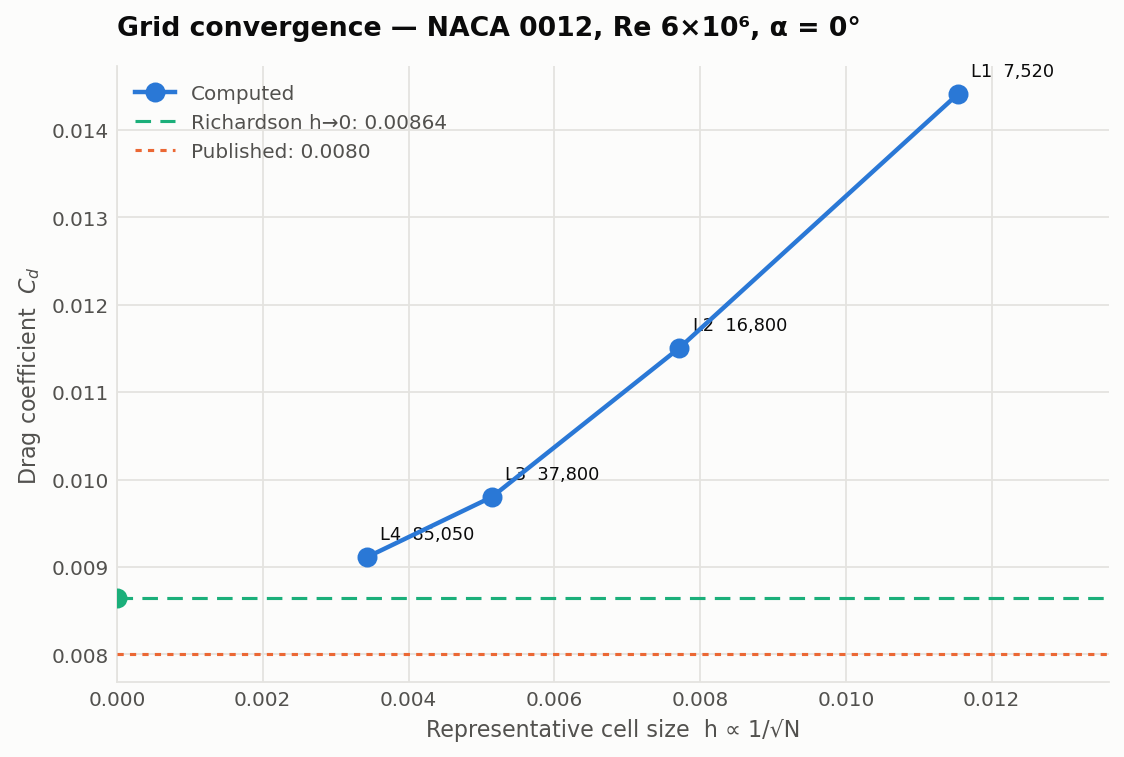
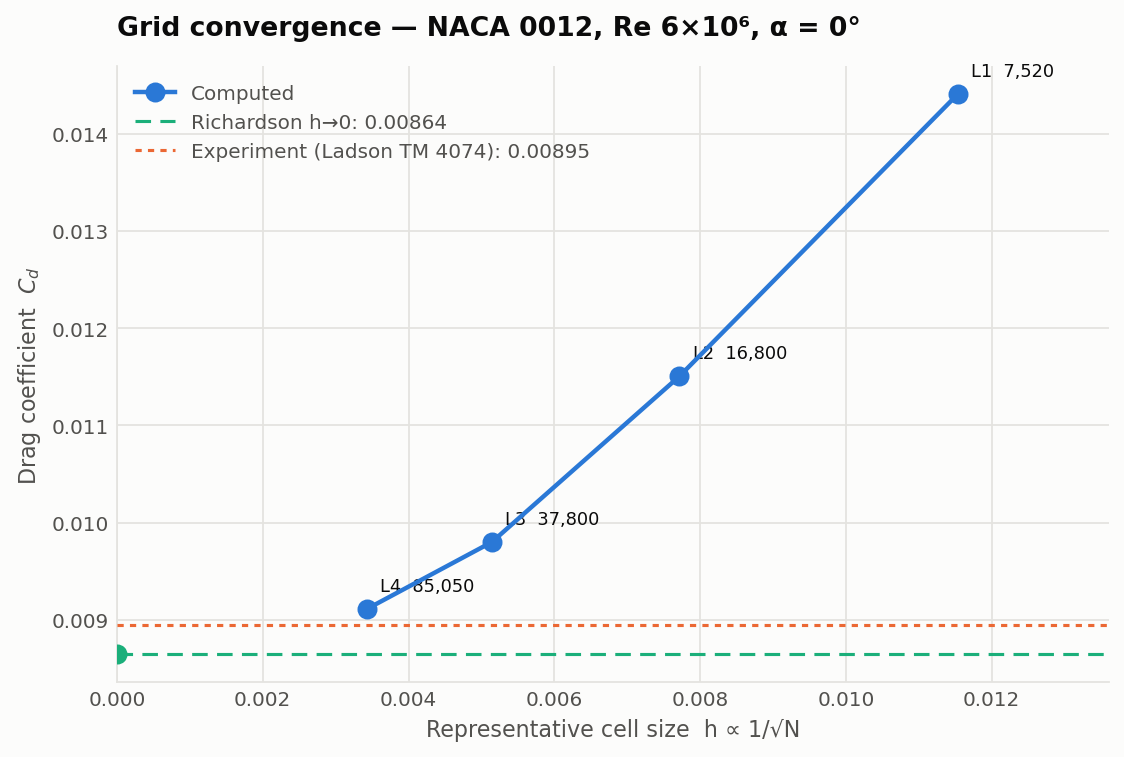
Validate against Ladson TM 4074, and delete the constant that was wrong
Digitises Table VII of NASA TM 4074 — M = 0.15, transition fixed with
No. 60-W grit, R = 6.00e6 — which is the right comparison because this
computation is fully turbulent from the leading edge with no transition
model.

Lift agrees to a mean absolute error of 0.0092 across the sweep and
better than 0.007 everywhere below +12 degrees. The worst point is +14 at
+0.051, which is the computation failing to stall rather than a modelling
error in the attached regime; the measurement stalls between 14.02 and
15.06 with Cl_max 1.2169.

Drag on the L3 mesh runs 8 to 42 counts high, and most of that turns out
to be discretisation. The mesh study extrapolates Cd at zero incidence to
0.008645 against a measured 0.00895 — minus 3.4%, inside the 6.4% GCI
band. The computation agrees with experiment to within its own numerical
uncertainty, and the L3 discrepancy is the grid rather than the model.

The reference constant this repository carried was wrong, which is the
finding worth keeping. PUBLISHED_CD = 0.0080 was written from memory and
belongs to a smooth aerofoil with free transition; the tripped case at
Re 6e6 is 0.00895. Against the bad constant the extrapolation looked 8.1%
high; against the real one it is 3.4% low. It made the model look worse
than it is and pointed the error the wrong way, and nothing about it
looked suspicious. analyse.py no longer holds a drag constant at all — it
reads the digitised reference, so the failure cannot recur.
[…]

diff --git a/analyse.py b/analyse.py
@@ -19,9 +19,24 @@ import matplotlib.pyplot as plt  # noqa: E402
 
 HERE = Path(__file__).parent
 
-# Abbott & Von Doenhoff, NACA 0012, Re 6e6, alpha 0, smooth surface.
-# Carried in code, not transcribed from the source — verify before publishing.
-PUBLISHED_CD = 0.0080
+# Read from the digitised reference rather than hard-coded. The constant that
+# used to sit here was 0.0080, taken from memory, and it was wrong for this
+# condition: that figure belongs to a smooth aerofoil with free transition,
+# while this computation is fully turbulent and must be compared against the
+# tripped case, which is 0.00895 at Re 6e6. The bad constant made the
+# extrapolated drag look 8.1% high when it is in fact 3.4% low. A number
+# carried in code with no provenance is exactly the failure the reference
+# loader exists to prevent, so the loader supplies it.
+REFERENCE = HERE / "validation" / "reference" / "naca0012-ladson-tm4074.json"
+
+
+def published_cd(alpha: float = 0.0):
+    """Experimental drag at `alpha`, or None if no reference is digitised yet."""
+    try:
+        from src.reference import load
+        return load(REFERENCE).interpolate(alpha, "cd")
+    except (FileNotFoundError, ValueError):
+        return None
 
 THEMES = {
     "light": {"surface": "#fcfcfb", "ink": "#0b0b0b", "ink_muted": "#52514e",
@@ -91,9 +106,11 @@ def figure(data, theme="light", suffix=""):
         ax.plot([0], [res["extrapolated"]], "o", color=t["series"][2],
                 markersize=8, zorder=5)
 
-    ax.axhline(PUBLISHED_CD, color=t["series"][1], linewidth=1.4,
-               linestyle=(0, (2, 2)), zorder=3,
-               label=f"Published: {PUBLISHED_CD:.4f}")
+    exp = published_cd(0.0)
+    if exp is not None:
+        ax.axhline(exp, color=t["series"][1], linewidth=1.4,
+                   linestyle=(0, (2, 2)), zorder=3,
+                   label=f"Experiment (Ladson TM 4074): {exp:.5f}")
 
     # Room on the right for the coarsest point's label, and the legend moved
     # off the two horizontal reference lines it was sitting on.
@@ -129,9 +146,16 @@ def main() -> None:
             print(f"observed order of convergence p = {res['p']:.2f}")
             print(f"Richardson extrapolation to h=0: Cd = {res['extrapolated']:.6f}")
             print(f"GCI on the finest grid          = {res['gci_fine']*100:.2f}%")
-            print(f"published Cd                    = {PUBLISHED_CD:.4f}")
-            err = (res["extrapolated"] - PUBLISHED_CD) / PUBLISHED_CD
-            print(f"extrapolated vs published       = {err*100:+.1f}%")
+            exp = published_cd(0.0)
+            if exp is None:
+                print("no digitised reference — comparison skipped")
+            else:
+                err = (res["extrapolated"] - exp) / exp
+                print(f"experiment (Ladson TM 4074)     = {exp:.5f}")
+                print(f"extrapolated vs experiment      = {err*100:+.1f}%")
+                inside = abs(err) < res["gci_fine"]
+                print(f"inside the {res['gci_fine']*100:.1f}% GCI band       "
+                      f"= {'yes' if inside else 'no'}")
         else:
             print("convergence is not monotone — Richardson extrapolation "
                   "does not apply to this sequence")

diff --git a/compare.py b/compare.py
@@ -64,18 +64,19 @@ def main() -> None:
     print(f"{'alpha':>7} {'Cl':>9} {'Cl exp':>9} {'ΔCl':>8} "
           f"{'Cd':>9} {'Cd exp':>9} {'Δ counts':>9}")
     for r in rows:
-        fmt = lambda v, s: f"{v:{s}}" if v is not None else " " * int(s.split(".")[0].strip(">+"))
+        def fmt(v, width, prec):
+            return f"{v:>+{width}.{prec}f}" if v is not None else " " * width
         print(f"{r['alpha']:>+7.1f} {r['cl']:>+9.4f} "
-              f"{fmt(r['cl_ref'], '>+9.4f')} {fmt(r['cl_delta'], '>+8.4f')} "
-              f"{r['cd']:>9.5f} {fmt(r['cd_ref'], '>9.5f')} "
-              f"{fmt(r['cd_counts'], '>+9.1f')}")
+              f"{fmt(r['cl_ref'], 9, 4)} {fmt(r['cl_delta'], 8, 4)} "
+              f"{r['cd']:>9.5f} {fmt(r['cd_ref'], 9, 5)} "
+              f"{fmt(r['cd_counts'], 9, 1)}")
 
     inside = [r for r in rows if r["in_range"]]
     outside = [r for r in rows if not r["in_range"]]
     if outside:
-        print(f"\n{len(outside)} computed angles lie outside the measured range "
-              f"and are not compared: "
-              f"{', '.join(f'{r[chr(39)+chr(39)] if False else r['alpha']:+.0f}°' for r in outside)}")
+        angles = ", ".join(f"{r['alpha']:+.0f}deg" for r in outside)
+        print(f"\n{len(outside)} computed angles lie outside the measured "
+              f"range and are not compared: {angles}")
     if inside:
         cl_d = [abs(r["cl_delta"]) for r in inside if r["cl_delta"] is not None]
         cd_c = [abs(r["cd_counts"]) for r in inside if r["cd_counts"] is not None]

diff --git a/src/reference.py b/src/reference.py
@@ -91,6 +91,20 @@ def load(path) -> Reference:
         if "alpha" not in p or not ({"cl", "cd"} & set(p)):
             raise ValueError(f"{path.name}: every point needs alpha and cl or cd")
 
+    # If the source printed its own lift-to-drag column, use it. Cl/Cd must
+    # reproduce it, and a transposed or misread digit in either coefficient
+    # breaks the ratio even though both numbers still look plausible on their
+    # own. This is the cheapest check there is on a digitised table, and it
+    # catches the error that matters most.
+    for p in points:
+        if {"cl", "cd", "l_over_d"} <= set(p) and p["cd"]:
+            if abs(p["cl"] / p["cd"] - p["l_over_d"]) > 0.1:
+                raise ValueError(
+                    f"{path.name}: at alpha {p['alpha']}, Cl/Cd = "
+                    f"{p['cl'] / p['cd']:.2f} but the source prints "
+                    f"{p['l_over_d']:.2f}. One of the three was misread."
+                )
+
     if str(raw["surface_condition"]).lower() not in ("smooth", "standard roughness"):
         raise ValueError(
             f"surface_condition {raw['surface_condition']!r} is not one of "

diff --git a/README.md b/README.md
@@ -19,6 +19,8 @@ rather than left to be assumed.
 | Lift-curve slope | **0.10710/deg — 97.7% of 2π** |
 | Zero-lift angle | **+0.0001°** (symmetry requires 0) |
 | Best L/D | **46.9 at +8°** |
+| Lift vs experiment | **mean \|ΔCl\| = 0.0092** over −4..+14° |
+| Grid-converged drag vs experiment | **−3.4%**, inside the 6.4% GCI band |
 
 ## Running it
 
@@ -78,15 +80,70 @@ as the aerofoil loads. The mesh is sized for y+ ≈ 1 at *zero* incidence, and
 SST's ω wall treatment blends up to roughly y+ 3, so the last two points deserve
 less weight than the linear range.
 
-**A comparison against experiment.** The reference plotted is thin aerofoil
-theory, which is exact analysis. `compare.py` and `src/reference.py` exist to
-compare against digitised wind tunnel data, and the loader **refuses any dataset
-that does not declare its source, figure, Reynolds number, surface condition and
-who digitised it**. A NACA 0012 at Re 6e6 has a minimum drag near 0.0060 smooth
-and near 0.0085 with standard roughness — choosing the wrong one moves the
-comparison by more than every numerical effect here combined. Fill in
-`validation/reference/naca0012-template.json` from a source you have actually
-read, and the comparison runs.
+**Stall, in the experiment either.** The measurement stalls between 14.02° and
+15.06° with Cl_max 1.2169. The computation is still climbing at +14° and gives
+1.2673 there, 4.2% high — steady RANS cannot resolve the separated flow, so the
+last point is the least trustworthy in the sweep.
+
+## Comparison against experiment
+
+Reference: **Ladson, NASA TM 4074 (1988)**, Table VII — M = 0.15, transition
+fixed with No. 60-W grit, R = 6.00 × 10⁶, Langley Low-Turbulence Pressure
+Tunnel. The tripped case is the right comparison because this computation is
+fully turbulent from the leading edge with no transition model.
+
+![Lift curve vs experiment](validation/vs-experiment.png)
+
+| α | Cl | Cl exp | ΔCl | Cd | Cd exp | Δ counts |
+|---|---|---|---|---|---|---|
+| −4° | −0.4282 | −0.4297 | +0.0015 | 0.01166 | 0.01037 | +12.9 |
+| −2° | −0.2147 | −0.2182 | +0.0035 | 0.01026 | 0.00904 | +12.2 |
+| 0° | +0.0000 | −0.0043 | +0.0043 | 0.00980 | 0.00895 | +8.5 |
+| +2° | +0.2146 | +0.2081 | +0.0065 | 0.01027 | 0.00944 | +8.3 |
+| +4° | +0.4282 | +0.4231 | +0.0050 | 0.01167 | 0.00975 | +19.1 |
+| +6° | +0.6363 | +0.6348 | +0.0015 | 0.01413 | 0.01115 | +29.7 |
+| +8° | +0.8343 | +0.8324 | +0.0019 | 0.01780 | 0.01402 | +37.8 |
+| +10° | +1.0155 | +1.0102 | +0.0053 | 0.02278 | 0.01898 | +38.0 |
+| +12° | +1.1674 | +1.1552 | +0.0122 | 0.02947 | 0.02530 | +41.6 |
+| +14° | +1.2673 | +1.2167 | +0.0506 | 0.03905 | 0.03873 | +3.2 |
+
+**Lift agrees to a mean absolute error of 0.0092** across the whole sweep, and
+to better than 0.007 everywhere below +12°. The +14° point is the worst at
++0.051, which is the computation failing to stall rather than a modelling error
+in the attached régime.
+
+**Drag on the L3 mesh runs 8 to 42 counts high**, and most of that is
+discretisation rather than physics. The mesh study extrapolates Cd at zero
+incidence to **0.008645** against a measured **0.00895** — **−3.4%**, which
+sits *inside* the 6.4% GCI band. The computation therefore agrees with
+experiment to within its own numerical uncertainty, and the L3 discrepancy is
+the grid, not the model.
+
+### The reference constant was wrong, and that is the point
+
+Before the data was digitised this repository carried `PUBLISHED_CD = 0.0080`,
+written from memory. That figure belongs to a **smooth** aerofoil with free
+transition. The tripped case at Re 6 × 10⁶ is **0.00895** — a 12% difference,
+and in the direction that matters:
+
+| reference used | extrapolated Cd vs it |
+|---|---|
+| 0.0080, from memory | **+8.1%** |
+| 0.00895, Ladson TM 4074 tripped | **−3.4%** |
+
+The bad constant made the model look worse than it is *and* pointed the error
+the wrong way. Nothing about it looked suspicious. `analyse.py` no longer holds
+a drag constant at all — it reads the digitised reference, so the failure mode
+cannot recur.
+
+### How the digitisation was checked
+
+TM 4074 prints its own lift-to-drag column beside Cl and Cd. Every one of the 14
+rows was checked by confirming Cl/Cd reproduces it, worst disagreement 0.024 —
+consistent with rounding at four to five significant figures. A transposed or
+misread digit in either coefficient breaks that ratio while both numbers still
+look plausible alone, so the loader now enforces the check on any dataset that
+carries an `l_over_d` field.
 
 ## Layout
 
@@ -98,5 +155,6 @@ src/reference.py   digitised experimental data, with provenance enforced
 study.py           mesh independence sweep      analyse.py   GCI + figure
 sweep.py           angle-of-attack sweep        polar.py     lift curve, polars
 compare.py         computed vs experiment
+validation/reference/  digitised experimental data + a refused template
 foam.sh            run an OpenFOAM command against ./case
 ```
